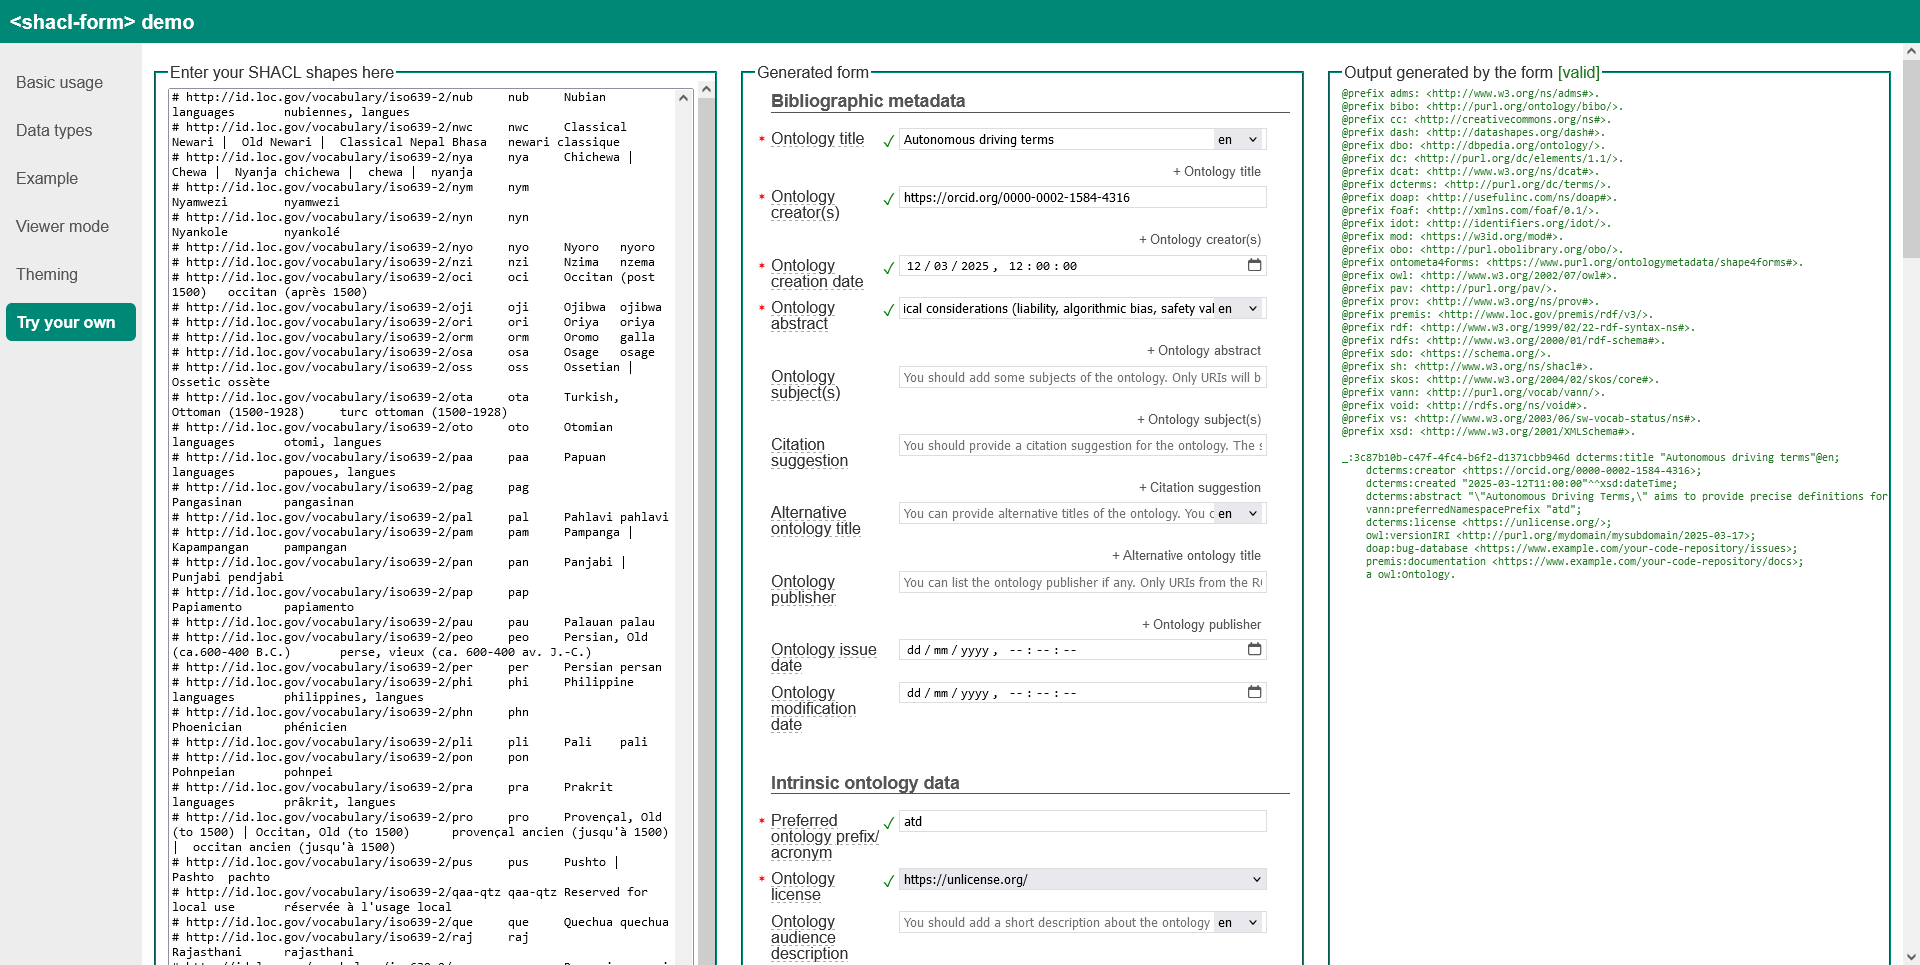
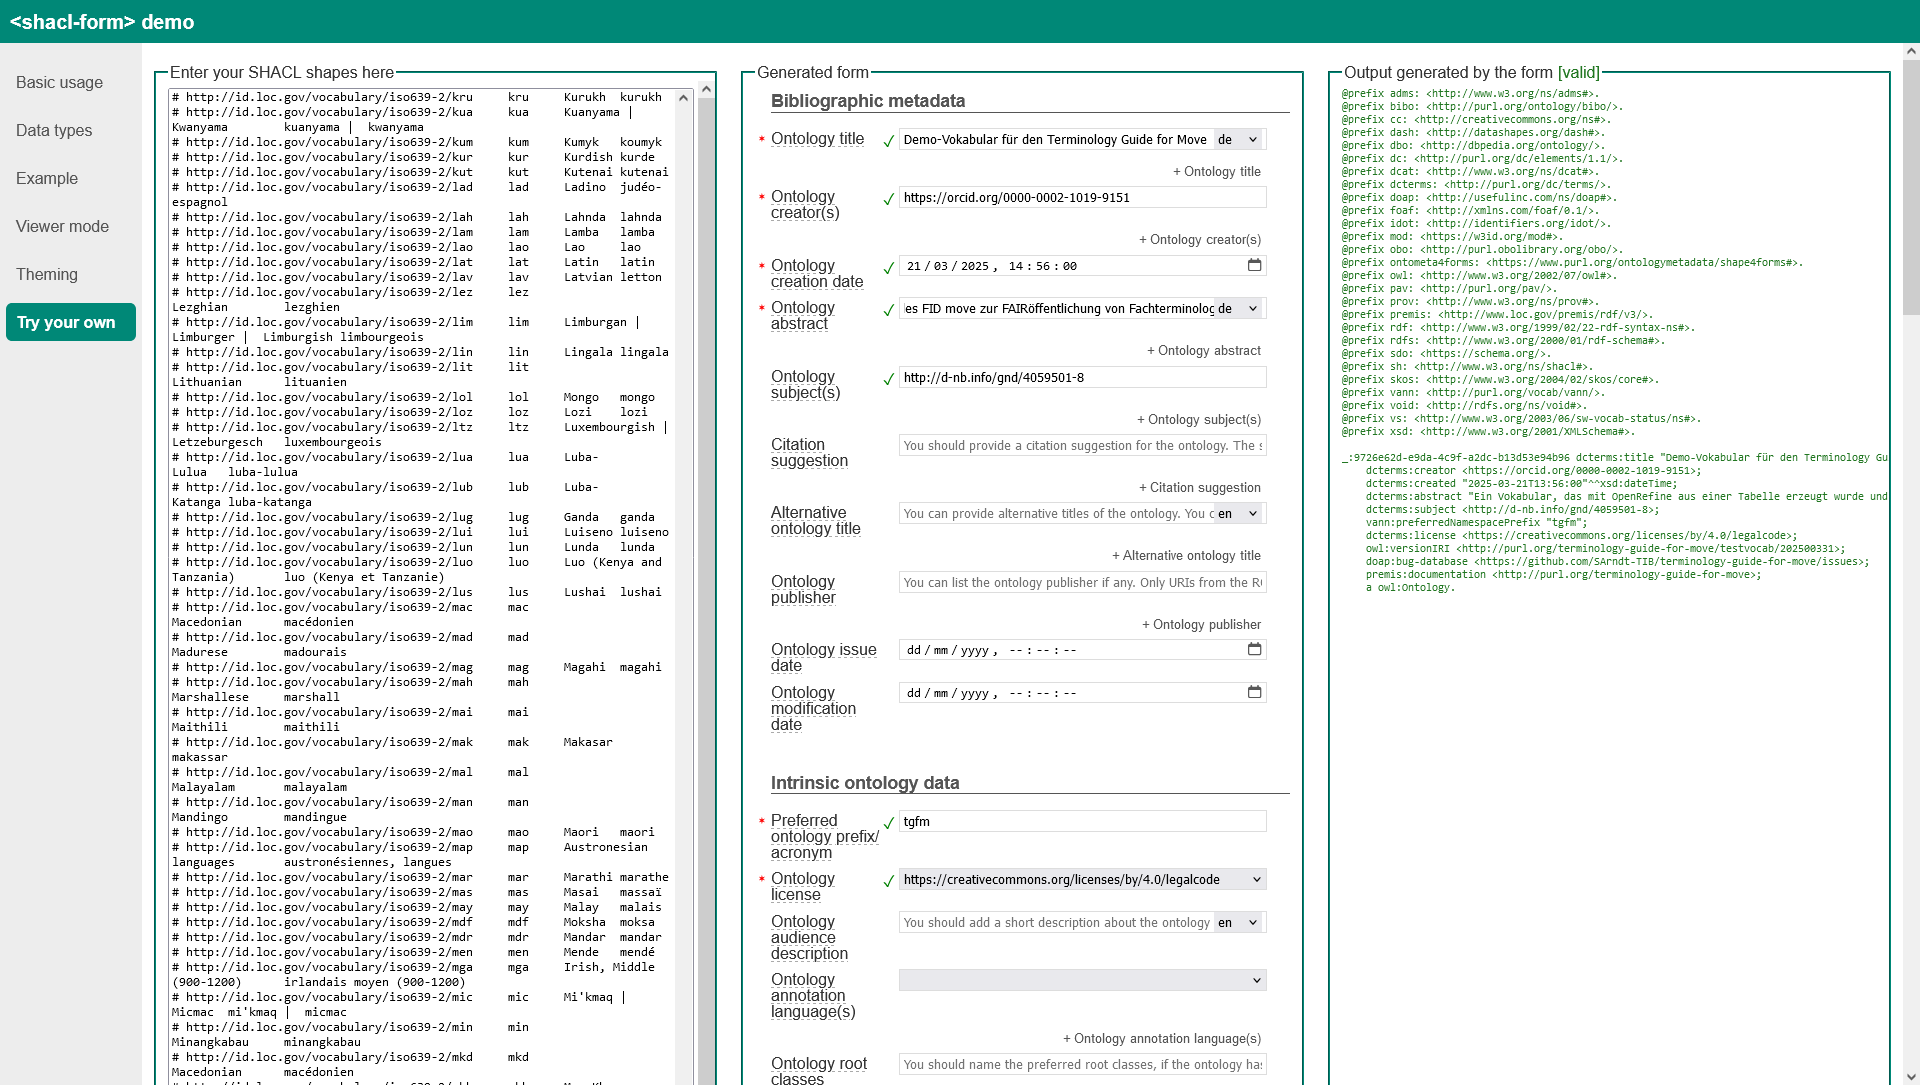
Updates

diff --git a/docs/de/tutorial-6.md b/docs/de/tutorial-6.md
@@ -76,24 +76,53 @@ Sie finden diese Empfehlung ebenfalls auf [GitHub](https://github.com/TIBHannove
 Insbesondere der dort beschriebene Use Case [Metadata recommendations in SHACL - For metadata form generators](https://github.com/TIBHannover/terminology-metadata?tab=readme-ov-file#for-metadata-form-generators) erlaubt Ihnen die schnellste Erfassung von empfohlenen Metadaten für Ihre Terminologie.
 Sie finden dort auch ein kurzes Einführungsvideo zur Nutzung.
 
+<details>
 <!-- <video  width="320" height="240" controls>
     <source src="images/form_generator-low-qual.mp4" type="video/mp4">
 </video> -->
 
+<summary>
+Zeig mir das Video
+</summary>
+
 [form_generator-low-qual.mp4](images/form_generator-low-qual.mp4 ':include :type=video controls width=100%')
+</details>
 
 Im Wesentlichen müssen Sie folgende Schritte durchführen:
 
 1. Gehen Sie zur Datei <https://github.com/TIBHannover/terminology-metadata/blob/main/OntoMetadataShape4Forms.ttl> und kopieren Sie den Quellcode dieser Datei:
-  ![Screenshot des Metadaten-Repositoriums der TIB auf GitHub, der zeigt, wo man dden Quellcode der Datei kopieren kann](images/GitHub-OntoMetadataShape4Forms.png)
+  <details>
+  <summary>
+  Zeig mir wie es geht
+  </summary>
+
+  ![Screenshot des Metadaten-Repositoriums der TIB auf GitHub, der zeigt, wo man den Quellcode der Datei kopieren kann](images/GitHub-OntoMetadataShape4Forms.png)
+  </details>
 2. Gehen Sie zur Live-Demo des Dienstes [SHACL Form Generator](https://ulb-darmstadt.github.io/shacl-form/) der ULB Darmstadt, in den Menü-Punkt [Try your own](https://ulb-darmstadt.github.io/shacl-form/#try-your-own).
+  
+  <details>
+  <summary>
+  Zeige den Screenshot des Tools
+  </summary>
+
   ![Screenshot des Tools SHACL Form Generator der ULB Darmstadt](images/ULB_Darmstadt-SHACL_Form_Generator.png)
-3. Fügen Sie den kopierten Quellcode in die Box mit der Überschrift `Enter your SHACL shapes here` ein und verlassen Sie dann das Feld (zum Beispiel mit der Tabulator-Taste oder durch Klicken auf einen anderen Teil des Tools). Dabei wird ein Formular generiert, in das Sie Ihre Metadaten eingeben können und das zugleich aus den eingegebenen Werten Code generiert und validiert:
+  </details>
+3. Fügen Sie den kopierten Quellcode in die Box mit der Überschrift `Enter your SHACL shapes here` ein und verlassen Sie dann das Feld (zum Beispiel mit der Tabulator-Taste oder durch Klicken auf einen anderen Teil des Tools). Dabei wird ein Formular generiert, in das Sie Ihre Metadaten eingeben können und das zugleich aus den eingegebenen Werten Code generiert und validiert. Die Beispieldaten zeigen Metadaten für das Testvokabular dieses Tutorials:
+  
+  <details>
+  <summary>
+  Zeige den Screenshot des Tools
+  </summary>
+
   ![](images/ULB_Darmstadt-SHACL_Form_Generator-WithData-All_Valid.png)
+  </details>
 
   Sollten Sie Schwierigkeiten mit den angefragten Daten haben, können Sie weitere Hilfestellungen in unserem [Metadaten-Guide](https://github.com/TIBHannover/terminology-metadata/blob/main/MetadataGuide.md) bekommen. Bei Fragen zur Metadaten-Empfehlung können Sie diese in unserem zugehörigen [GitHub-Diskussionforum (Abschnitt Q&A)](https://github.com/TIBHannover/terminology-metadata/discussions/categories/q-a) stellen. Vorschläge und Bugs können Sie uns direkt im [Issue-Tracker](https://github.com/TIBHannover/terminology-metadata/issues) mitteilen.
-4. Nachdem Sie mindestens die Pflichteingaben in der erwarteten Form gemacht haben, werden die Daten als valide angesehen und Sie können den generierten Code kopieren, um ihn für Ihre eigenen Daten zu nutzen. Ein beispielhafter Output wäre:
-  
+4. Nachdem Sie mindestens die Pflichteingaben in der erwarteten Form gemacht haben, werden die Daten als valide angesehen und Sie können den generierten Code kopieren, um ihn für Ihre eigenen Daten zu nutzen. Sie können dazu die Daten exportieren oder einfach kopieren und in einen Text-Editor speichern. Ein beispielhafter Output wäre:
+
+  <details>
+  <summary>Zeige den Code </summary>  
+
   ``` turtle
   @prefix adms: <http://www.w3.org/ns/adms#>.
   @prefix bibo: <http://purl.org/ontology/bibo/>.
@@ -123,64 +152,76 @@ Im Wesentlichen müssen Sie folgende Schritte durchführen:
   @prefix vs: <http://www.w3.org/2003/06/sw-vocab-status/ns#>.
   @prefix xsd: <http://www.w3.org/2001/XMLSchema#>.
 
-  _:3c87b10b-c47f-4fc4-b6f2-d1371cbb946d dcterms:title "Autonomous driving terms"@en;
-    dcterms:creator <https://orcid.org/0000-0002-1584-4316>;
-    dcterms:created "2025-03-12T11:00:00"^^xsd:dateTime;
-    dcterms:abstract "\"Autonomous Driving Terms,\" aims to provide precise definitions for key concepts, ranging from fundamental sensor technologies (LiDAR, RADAR, cameras) and algorithmic processes (sensor fusion, path planning, object detection) to complex regulatory and ethical considerations (liability, algorithmic bias, safety validation)."@en;
-    vann:preferredNamespacePrefix ":";
-    dcterms:license <https://unlicense.org/>;
-    owl:versionIRI <http://purl.org/terminology-guide-for-move/testvocab/2025-03-17>;
-    doap:bug-database <https://www.example.com/your-code-repository/issues>;
-    premis:documentation <https://www.example.com/your-code-repository/docs>;
-    a owl:Ontology.
+  _:9726e62d-e9da-4c9f-a2dc-b13d53e94b96 dcterms:title "Demo-Vokabular für den Terminology Guide for Move"@de;
+      dcterms:creator <https://orcid.org/0000-0002-1019-9151>;
+      dcterms:created "2025-03-21T13:56:00"^^xsd:dateTime;
+      dcterms:abstract "Ein Vokabular, das mit OpenRefine aus einer Tabelle erzeugt wurde und das als Demonstrationsmaterial in einem Tutorial des FID move zur FAIRöffentlichung von Fachterminologie dient."@de;
+      dcterms:subject <http://d-nb.info/gnd/4059501-8>;
+      vann:preferredNamespacePrefix "tgfm";
+      dcterms:license <https://creativecommons.org/licenses/by/4.0/legalcode>;
+      owl:versionIRI <http://purl.org/terminology-guide-for-move/testvocab/202500331>;
+      doap:bug-database <https://github.com/SArndt-TIB/terminology-guide-for-move/issues>;
+      premis:documentation <http://purl.org/terminology-guide-for-move>;
+      a owl:Ontology.
   ```
+  </details>
   
-5. Die Präfix-Definitionen dieser Datei können in die Metadaten-Datei `metadata.ttl` für Ihr Vokabular übernommen werden. So wird sichergestellt, dass alle übernommenen Statements weiterhin korrekt interpretiert werden können. Die einzelnen Statements, die vom Tool der ULB erzeigt wurden, beziehen sich nun auf ein anonymes, nicht-benanntes Element, einen sogenannten _blank node_, der über den Wert `_:3c87b10b-c47f-4fc4-b6f2-d1371cbb946d` repräsentiert wird. Diesen Wert können Sie als einen Platzhalter auffassen, der durch die baseIRI Ihres eigenen Vokabulars ersetzt werden muss. Das Statement `_:3c87b10b-c47f-4fc4-b6f2-d1371cbb946d dcterms:title a owl:Ontology` können Sie weglassen, da wir es bereits in metadata.ttl ergänzt hatten - allerdings mit der vollausgeschriebenen Form `rdf:type` von `a`.  Die restlichen Statements können Sie in die Datei `metadata.ttl` übernehmen. Am Ende könnte `metadata.ttl` also folgenden Inhalt haben:
+5. Die Präfix-Definitionen dieses Codes können in die Metadaten-Datei `metadata.ttl` für Ihr Vokabular übernommen werden. So wird sichergestellt, dass alle übernommenen Statements weiterhin korrekt interpretiert werden können. Die einzelnen Statements, die vom Tool der ULB erzeigt wurden, beziehen sich nun auf ein anonymes, nicht-benanntes Element, einen sogenannten _blank node_, der über den Wert `_:9726e62d-e9da-4c9f-a2dc-b13d53e94b96` repräsentiert wird. Diesen Wert können Sie als einen Platzhalter auffassen, der durch die baseIRI Ihres eigenen Vokabulars ersetzt werden muss. Das Statement `_:9726e62d-e9da-4c9f-a2dc-b13d53e94b96 a owl:Ontology` können Sie weglassen, da wir bereits ein vergleichbares Statement in metadata.ttl ergänzt hatten - allerdings mit einer von uns gewählten URL für die Datei und der vollausgeschriebenen Form `rdf:type` von `a`.
+Die restlichen Statements können Sie in die Datei `metadata.ttl` übernehmen.
+Am Ende könnte `metadata.ttl` also folgenden Inhalt haben:
 
-  ``` turtle
-  @prefix :        <http://purl.org/terminology-guide-for-move/testvocab/> . # ggf. ändern, wenn Sie nicht mit den Beispieldaten unseres Tutorials arbeiten
-  @prefix dcat:    <http://www.w3.org/ns/dcat#> .
-  @prefix dcterms: <http://purl.org/dc/terms/> .
-  @prefix ex:      <https://www.example.com/> .
-  @prefix foaf:    <http://xmlns.com/foaf/0.1/> .
-  @prefix m4i:     <http://w3id.org/nfdi4ing/metadata4ing#> .
-  @prefix owl:     <http://www.w3.org/2002/07/owl#> .
-  @prefix skos:    <http://www.w3.org/2004/02/skos/core#> .
-  @prefix skosxl:  <http://www.w3.org/2008/05/skos-xl#> .
-  @prefix vcard:   <http://www.w3.org/2006/vcard/ns#> .
-  @prefix xsd:     <http://www.w3.org/2001/XMLSchema#> .
-  @prefix adms: <http://www.w3.org/ns/adms#>.
-  @prefix bibo: <http://purl.org/ontology/bibo/>.
-  @prefix cc: <http://creativecommons.org/ns#>.
-  @prefix dash: <http://datashapes.org/dash#>.
-  @prefix dbo: <http://dbpedia.org/ontology/>.
-  @prefix dc: <http://purl.org/dc/elements/1.1/>.
-  @prefix doap: <http://usefulinc.com/ns/doap#>.
-  @prefix idot: <http://identifiers.org/idot/>.
-  @prefix mod: <https://w3id.org/mod#>.
-  @prefix obo: <http://purl.obolibrary.org/obo/>.
-  @prefix ontometa4forms: <https://www.purl.org/ontologymetadata/shape4forms#>.
-  @prefix pav: <http://purl.org/pav/>.
-  @prefix prov: <http://www.w3.org/ns/prov#>.
-  @prefix premis: <http://www.loc.gov/premis/rdf/v3/>.
-  @prefix rdf: <http://www.w3.org/1999/02/22-rdf-syntax-ns#>.
-  @prefix rdfs: <http://www.w3.org/2000/01/rdf-schema#>.
-  @prefix sdo: <https://schema.org/>.
-  @prefix sh: <http://www.w3.org/ns/shacl#>.
-  @prefix vann: <http://purl.org/vocab/vann/>.
-  @prefix void: <http://rdfs.org/ns/void#>.
-  @prefix vs: <http://www.w3.org/2003/06/sw-vocab-status/ns#>.
+  <details>
+  <summary>Zeige den Code</summary>
 
-  <http://purl.org/mydomain/mysubdomain>  rdf:type owl:Ontology ;
-    rdf:type skos:ConceptScheme;
-    dcterms:title "Autonomous driving terms"@en;
-    dcterms:creator <https://orcid.org/0000-0002-1584-4316>;
-    dcterms:created "2025-03-12T11:00:00"^^xsd:dateTime;
-    dcterms:abstract "\"Autonomous Driving Terms,\" aims to provide precise definitions for key concepts, ranging from  fundamental sensor technologies (LiDAR, RADAR, cameras) and algorithmic processes (sensor fusion, path planning, object detection) to complex regulatory and ethical considerations (liability, algorithmic bias, safety validation)."@en;
-    vann:preferredNamespacePrefix "atd";
-    dcterms:license <https://unlicense.org/>;
-    owl:versionIRI <http://purl.org/terminology-guide-for-move/testvocab/2025-03-17>;
-    doap:bug-database <https://www.example.com/your-code-repository/issues>;
-    premis:documentation <https://www.example.com/your-code-repository/docs>;
-    .
-```
+    ``` turtle
+    @prefix :        <http://purl.org/terminology-guide-for-move/testvocab/> . # ggf. ändern, wenn Sie nicht mit den Beispieldaten unseres Tutorials arbeiten
+    @prefix dcat:    <http://www.w3.org/ns/dcat#> .
+    @prefix dcterms: <http://purl.org/dc/terms/> .
+    @prefix ex:      <https://www.example.com/> .
+    @prefix foaf:    <http://xmlns.com/foaf/0.1/> .
+    @prefix m4i:     <http://w3id.org/nfdi4ing/metadata4ing#> .
+    @prefix owl:     <http://www.w3.org/2002/07/owl#> .
+    @prefix skos:    <http://www.w3.org/2004/02/skos/core#> .
+    @prefix skosxl:  <http://www.w3.org/2008/05/skos-xl#> .
+    @prefix vcard:   <http://www.w3.org/2006/vcard/ns#> .
+    @prefix xsd:     <http://www.w3.org/2001/XMLSchema#> .
+    @prefix adms: <http://www.w3.org/ns/adms#>.
+    @prefix bibo: <http://purl.org/ontology/bibo/>.
+    @prefix cc: <http://creativecommons.org/ns#>.
+    @prefix dash: <http://datashapes.org/dash#>.
+    @prefix dbo: <http://dbpedia.org/ontology/>.
+    @prefix dc: <http://purl.org/dc/elements/1.1/>.
+    @prefix doap: <http://usefulinc.com/ns/doap#>.
+    @prefix idot: <http://identifiers.org/idot/>.
+    @prefix mod: <https://w3id.org/mod#>.
+    @prefix obo: <http://purl.obolibrary.org/obo/>.
+    @prefix ontometa4forms: <https://www.purl.org/ontologymetadata/shape4forms#>.
+    @prefix pav: <http://purl.org/pav/>.
+    @prefix prov: <http://www.w3.org/ns/prov#>.
+    @prefix premis: <http://www.loc.gov/premis/rdf/v3/>.
+    @prefix rdf: <http://www.w3.org/1999/02/22-rdf-syntax-ns#>.
+    @prefix rdfs: <http://www.w3.org/2000/01/rdf-schema#>.
+    @prefix sdo: <https://schema.org/>.
+    @prefix sh: <http://www.w3.org/ns/shacl#>.
+    @prefix vann: <http://purl.org/vocab/vann/>.
+    @prefix void: <http://rdfs.org/ns/void#>.
+    @prefix vs: <http://www.w3.org/2003/06/sw-vocab-status/ns#>.
+
+    <http://purl.org/terminology-guide-for-move/testvocab/>  rdf:type owl:Ontology ;
+      rdf:type skos:ConceptScheme;
+      <!-- ab hier finden Sie die mit dem Tool der ULB-Darmstadt erzeugten Statments -->
+      dcterms:title "Demo-Vokabular für den Terminology Guide for Move"@de;
+      dcterms:creator <https://orcid.org/0000-0002-1019-9151>;
+      dcterms:created "2025-03-21T13:56:00"^^xsd:dateTime;
+      dcterms:abstract "Ein Vokabular, das mit OpenRefine aus einer Tabelle erzeugt wurde und das als Demonstrationsmaterial in einem Tutorial des FID move zur FAIRöffentlichung von Fachterminologie dient."@de;
+      dcterms:subject <http://d-nb.info/gnd/4059501-8>;
+      vann:preferredNamespacePrefix "tgfm";
+      dcterms:license <https://creativecommons.org/licenses/by/4.0/legalcode>;
+      owl:versionIRI <http://purl.org/terminology-guide-for-move/testvocab/202500331>;
+      doap:bug-database <https://github.com/SArndt-TIB/terminology-guide-for-move/issues>;
+      premis:documentation <http://purl.org/terminology-guide-for-move>;
+      .
+  ```
+  </details>
+
+* [ ] jetzt noch erklären, wie man den OpenRefine-Output und die metadata.ttl zusammenbringt

diff --git a/docs/de/tutorial-9.md b/docs/de/tutorial-9.md
@@ -1,6 +1,23 @@
 # Validierung, Qualitätsprüfung, FAIRness
 
+## FAIRness eines Vokabulars
+
+Auch Terminologien, die für das Semantic Web aufbereitet werden, sollen am Ende den [FAIR-Prinzipien](https://www.go-fair.org/fair-principles/) genügen.
+Das bedeutet, sie müssen **F**indable (auffindbar), **A**ccessible (zugänglich), **I**nteroperable (interoperabel) und **R**e-Usable (nachnutbar) sein.
+Die FAIR-Prinzipien legen eine Reihe von Kriterien fest, die erfüllt sein müssen, damit eine Ressource FAIR ist.
+Inzwischen wurden diese Kriterien auch schon im Sinne "semantischer Artefakte" (z.B. SKOS-Vokabulare, wie wir es hier erstellt haben) interpretiert und in entsprechenden Prüftools implementiert. Ein solches Tool ist der [FOOPS Validator](https://foops.linkeddata.es/FAIR_validator.html), in den man einfach nur den Link einer Ressource eingeben muss, um eine Einschätzung ihrer FAIRness gegeliedert nach den einzelnen FAIR-Prinzipien zu bekommen.
+
+Versuchen wir dies einmal mit dem im GitHub-Repositorium abgelegten Test-Vokabular, das wir im Schritt [Tabellarische Datenverwaltung für OpenRefine](tutorial-13.md) erstellt haben und für das wir in [Identifier erstellen](tutorial-7.md#purlorg) die PURL <http://purl.org/terminology-guide-for-move> eingerichtet hatten.
+
+<!-- der datei fehlen noch die metadaten, und ein `a owl:Ontology` statement, da wird aktuell noch gar nichts erkannt -->
+
+<details>
+<summary>Ergebnis des FOOPS-Validators</summary>
+
+![](images/FOOPS_eval_of_test_vocab.png)
+
+</details>
+
 * jskos
-* FOOPS
 * SKOS Play
 * Metadata validation
